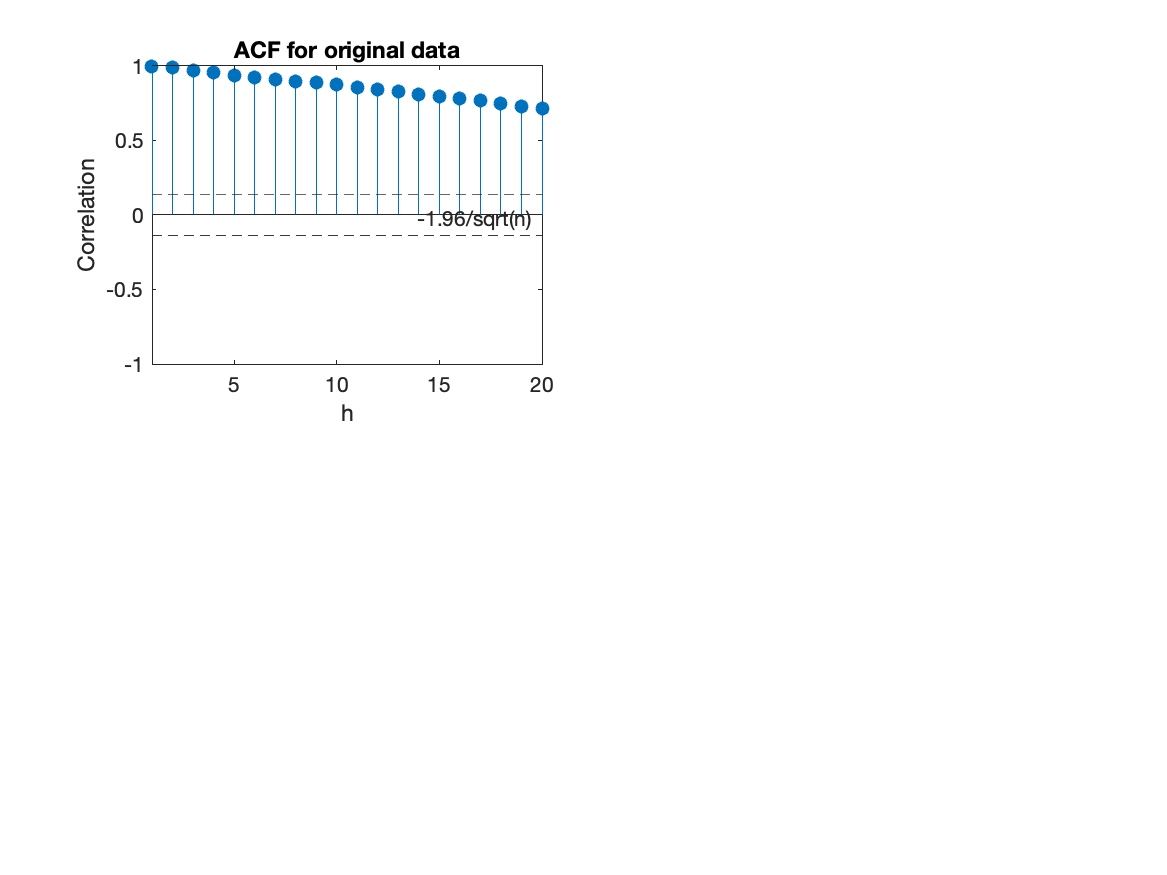
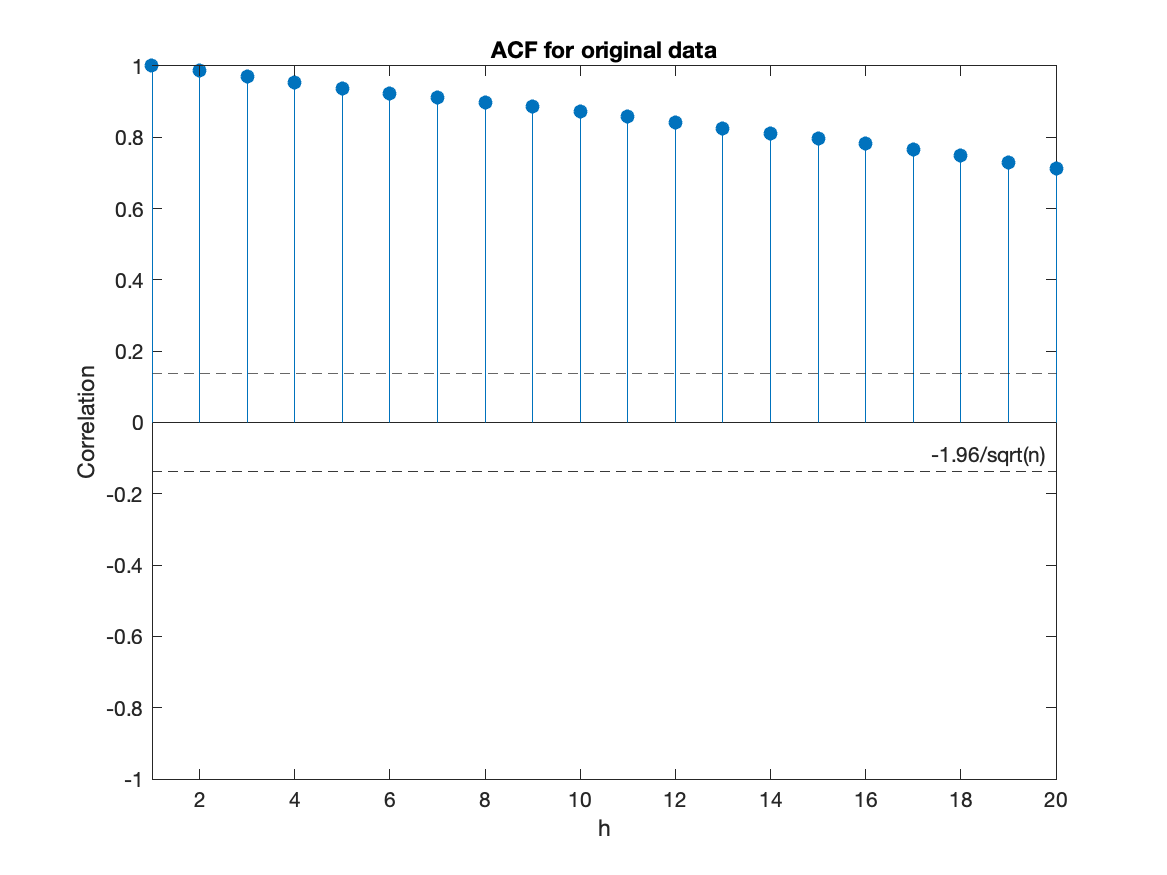
Cleanup plots and problem 5
Also add appendix

diff --git a/main.tex b/main.tex
@@ -4,6 +4,11 @@
 \usepackage{amssymb}
 \usepackage{amsmath}
 \usepackage{float}
+\usepackage[toc,page]{appendix}
+
+\DeclareMathOperator{\Var}{Var}
+\DeclareMathOperator{\Corr}{Corr}
+\DeclareMathOperator{\Cov}{Cov}
 
 \title{Time Series Project 1}
 \author{Stefan Eng and Franz Hartleitner}
@@ -170,6 +175,7 @@ The p-value is $1.66 \times 10^{-8}$.
 
 \section*{Problem 5}
 \subsection*{Part a}
+
 % Show expected value the same
 \begin{align}
     E[X_t] &= E[\cos(\omega t + Y)] \nonumber\\
@@ -180,61 +186,73 @@ The p-value is $1.66 \times 10^{-8}$.
 
 \noindent \eqref{ref1} Trignonometric identity \\
 \\
-\eqref{ref2} 
+\eqref{ref2}
 \begin{align*}
 E[\cos(Y)] &= \int_{-\infty}^{\infty} \cos(x) \mathbb{I}_{[-\pi, \pi]} dx \\
 &= \int_{-\pi}^{\pi} cos(x) dx = [sin(x)]^{\pi}_{-\pi} = 0 + 0 = 0
 \end{align*}
 
 \begin{align*}
-E[\sin(Y)] &= \int_{-\infty}^{\infty} \sin(x) \mathbb{I}_{[-\pi, \pi]} dx = \int_{-\pi}^{\pi} sin(x) dx\\ 
+E[\sin(Y)] &= \int_{-\infty}^{\infty} \sin(x) \mathbb{I}_{[-\pi, \pi]} dx = \int_{-\pi}^{\pi} sin(x) dx\\
 & = [-cos(x)]^{\pi}_{-\pi} = -\cos(\pi) - (- cos(-\pi)) \\
 & = -(-1) - ( - (-1)) = 1 - 1 = 0
 \end{align*}
 
+
+We can also see that $\Var(cos(wt + Y)) < +\infty$
 \begin{align*}
-\gamma_X(r,s) &= Cov(X_r, X_s) = E[cos(wr + Y)cos(ws + Y)] \\
- &= E[(\cos(wr)\cos(Y) - \sin(wr)\sin(Y))(\cos(ws)\cos(Y) - \sin(ws)\sin(Y)] \\
- &= E[\cos^2(Y)\cos(wr)\cos(ws) + \cos(wr)\cos(Y)\sin(wr)\sin(Y) - \sin(wr)\sin(Y)\cos(ws)\cos(Y) \\
- & + \sin^2(Y)sin(wr)sin(ws) ] \\
- & = E[\cos^2(Y)]\cos(wr)\cos(ws) + E[\cos(Y)\sin(Y)](\cos(wr)\sin(wr) - \sin(ws)\cos(ws)) \\
- & + E[\sin^2(Y)sin(wr)sin(ws)] \\
- & \underbrace{=}_{Additional \ calculation}  \pi (\cos(wr)\cos(ws) -\sin(wr)\sin(ws)) \\
- & \underbrace{=}_{trig. identity} \pi \cos(w(r-s)) \\
- & = \pi \cos(w((r + h) - (s + h)) \\
- & = \gamma_{X}(r+h, s+h)
+\Var(cos(wt + Y)) &= \Cov(cos(wt + Y), cos(wt + Y))\\
+&= E[cos^2(wt + Y)] - \underbrace{E[cos(wt + Y)]^2}_{0}\\
+&= E[\frac{1 + \cos(2(wt + Y))}{2}] < \infty
+\end{align*}
+
+\begin{align*}
+\gamma_X(t,t + h) &= Cov(X_{t}, X_{t + h}) = E[cos(wt + Y)cos(w(t+h) + Y)] \\
+ &= E[(\cos(wt)\cos(Y) - \sin(wt)\sin(Y))(\cos(wt + wh))\cos(Y) - \sin(wt + wh))\sin(Y)] \\
+ &= E[\cos^2(Y)\cos(wt)\cos(wt + wh) + \sin^2(Y)sin(wt)sin(wt + wh)\\
+ & \quad + \cos(wt)\sin(wt + wh)\sin(Y)\cos(Y) - \sin(wt)\cos(wt + wh)\sin(Y)\cos(Y)]\\
+ & = \underbrace{E[\cos^2(Y)]}_{\pi \text{ by Appendix \ref{appendix:cos2y}}} \cos(wt)\cos(wt + wh) + \underbrace{E[\sin^2(Y)]}_{\pi \text{ by Appendix \ref{appendix:cos2y}}} sin(wt)sin(wt + wh) +\\
+ & \quad \underbrace{E[sin(Y)cos(Y)]}_{\text{0 by Appendix \ref{appendix:sinycosy}}} [\cos(wt)\sin(wt + wh) - \sin(wt)\cos(wt + wh)]\\
+ &= \pi [\cos(wt)\cos(wt + wh) + sin(wt)sin(wt + wh)]\\
+ &= \pi [
+ \cos(wt)[\cos(wt) \cos(wh) - \sin(wt) \sin(wh)] +\\
+ &\qquad sin(wt)[sin(wt) cos(wh) + sin(wh) cos(wt)]]\\
+ &= \pi [
+  cos^2(wt) cos(wh) + sin^2(wt) cos(wh) +\\
+  &\qquad sin(wh)cos(wt)sin(wt) - sin(wh)cos(wt)sin(wt)
+ ]\\
+ &= \pi cos(wh) [cos^2(wt) + sin^2(wt)]\\
+ &= \pi \cos(wh)
  \end{align*}
 
-This shows the process to be stationary.\\
-\\
-\\
-\\
-We can derive from the calculation of $Cov$ that for the Autocovariance holds the following:\\
-$\gamma_X(h) = \pi \cos(wh)$
-\\
-\\
-Additional Calculation:\\
-In the first part we show $E[\cos^2(Y)] = \pi$ and $E[\sin^2(Y)] = \pi$. In the second part we show
-$E[\sin(Y)\cos(Y)] = 0$
+ Since $\gamma_X(t,t + h)$ does not depend on $h$, this completes the proof that the process to be stationary.
 
- 
+It follows that the autocovariance function for $X_t$ is $\gamma_X(h) = \pi \cos(wh)$.
+
+\begin{appendices}
+
+\section{Additional Calculation}
+
+\subsection{$E[\cos^2(Y)] = \pi$ and $E[\sin^2(Y)] = \pi$}
+\label{appendix:cos2y}
+
 1) $ Y \sim \mathcal{U}[-\pi, \pi] $\\
 \begin{align*}
- \int \cos^2(y) dy = & \int \cos(y)\cos(y) = \\
-& \underbrace{=}_{Int. \ by \ parts} \sin(y)\cos(y) - \int -\sin(y)\sin(y) \\
-& = \cos(y)\sin(y) + \int 1 - \cos^2(y) \\
-& = \cos(y)\sin(y) + y + \int \cos^2(y) dy \\
-&\Rightarrow 2\int \cos^2(y) dy = \cos(y)\sin(y) + y \\
-&\Rightarrow \int \cos^2(y)dy = \frac 1 2 (\cos(y)\sin(y) + y) \\
-\end{align*}
-\begin{align*}
- \Rightarrow E[\cos^2(Y)] = \int_{-\pi}^{\pi} \cos^2(y)dy = [\frac 1 2 (\cos(y)\sin(y) + y) ]^{\pi}_{-\pi} = \pi
+E[\cos^2(Y)] &= \int_{\pi}^\pi \cos^2(y) dy\\
+&= \int_{\pi}^\pi \frac{1 + \cos(2y)}{2} dy &&\text{half angle formula}\\
+&= \frac{1}{2} y + \frac{1}{4} sin(2y) \Big|_{-\pi}^\pi\\
+&= \frac{1}{2} \pi - (- \frac{1}{2} \pi) = \pi
 \end{align*}
 
 \begin{align*}
-E[\sin^2(Y)] = \dots = [\frac 1 2 (-\cos(y)\sin(y) + y) ]^{\pi}_{-\pi} = \pi
+E[\sin^2(Y)] &= \int_{\pi}^\pi \cos^2(y) dy\\
+&= \int_{\pi}^\pi \frac{1 - \cos(2y)}{2} dy &&\text{half angle formula}\\
+&= \frac{1}{2} y - \frac{1}{4} sin(2y) \Big|_{-\pi}^\pi\\
+&= \pi
 \end{align*}
 2) $ Y \sim \mathcal{U}[-\pi, \pi] $
+
+\subsection{$E[\sin(Y)\cos(Y)] = 0$} \label{appendix:sinycosy}
 \begin{align*}
 \int \sin(y)\cos(y)dy& \underbrace{=}_{u = \sin(y), \ du = cos(y)dy} \int u du \\
 &= \frac 1 2 u^2 + C = \sin^2(y) + C \\
@@ -243,6 +261,7 @@ E[\sin^2(Y)] = \dots = [\frac 1 2 (-\cos(y)\sin(y) + y) ]^{\pi}_{-\pi} = \pi
 \Rightarrow E[\sin(Y)\cos(Y)] = [\sin^2(y)]^{\pi}_{\pi} = 0 - 0 = 0
 \end{align*}
 
+\end{appendices}
 
 \bibliographystyle{plain}
 \bibliography{references}

diff --git a/project1.m b/project1.m
@@ -54,7 +54,7 @@ chi2cdf(lambda_log, 20, 'upper');
 
 % IID should be 0 covariance
 figure;
-subplot(2,2,1);
+%subplot(2,2,1);
 stem(acf_data, 'filled');
 %Draw +- 1.96 / sqrt(n) lines
 
@@ -155,17 +155,6 @@ title("QQ plot");
 ylabel("Standardize Log Returns Quantiles");
 xlabel("Normal Quantiles");
 saveas(gcf,'plots/qqplot.png');
-
-% Test of Normality by Shapiro–Wilk test:
-% H0:   Composite normality is a reasonable assumption regarding the
-%       population distribution of a random sample X
-%
-% Returning 'H = 0' implies that we 'Do not reject the null 
-% hypothesis at the significance level of alpha' and 'H = 1' implies 
-% that we 'Reject the null hypothesis at significance level of alpha
-% (alpha by default 0.05)
-[H, p, W] = swtest(corrected_log_returns);
-
 
 % Test of Normality by Kolmogorov Smirnov Test:
 % h = kstest(x) returns a test decision for the null hypothesis that the
